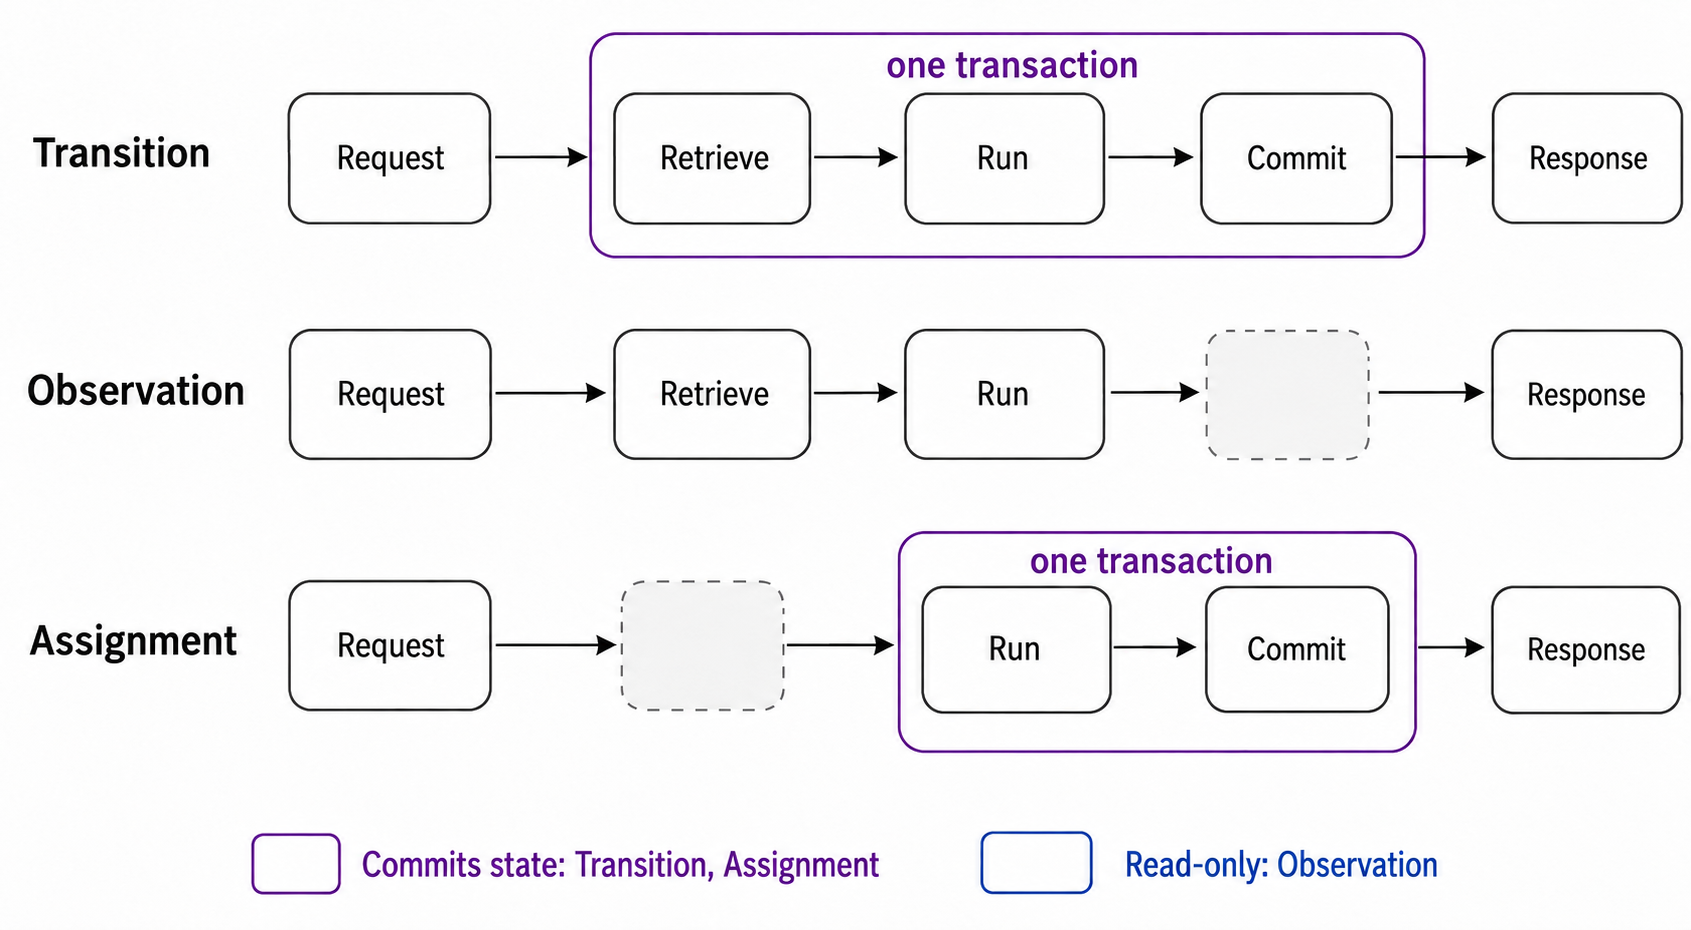
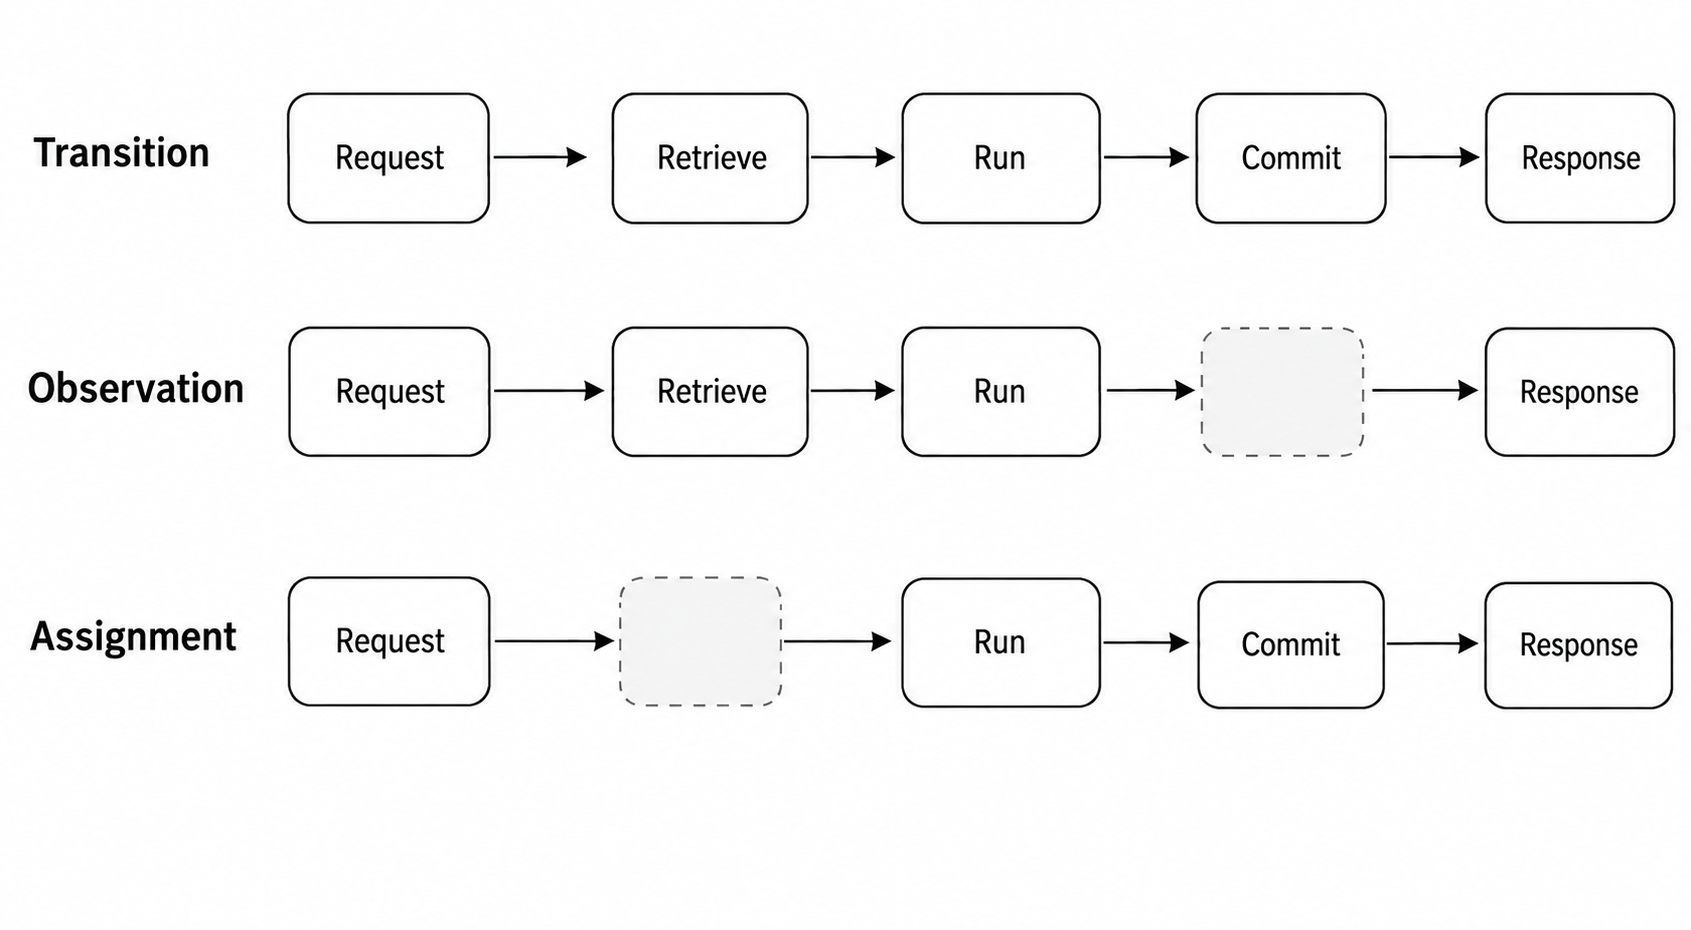
docs: show transaction as the commit phase

diff --git a/docs/concepts/operations.md b/docs/concepts/operations.md
@@ -16,19 +16,17 @@ An operation has three phases. Its type determines which of them it needs:
 
 ![The phases of transitions, observations, and assignments](../.assets/operations.png)
 
-The empty positions show phases an operation type does not have. The transaction boundary contains
-all the phases that operate on managed state: a transition retrieves, runs, and commits within it;
-an assignment runs against a changeset and commits it within the same boundary. An observation
-retrieves and runs without opening a transaction because it has nothing to commit.
+The empty positions show phases an operation type does not have. A transition uses all three;
+an observation does not commit; an assignment prepares changes without retrieving state first.
 
 The function expresses the **run** phase. Retrieval and persistence belong to the runtime.
 Changing several fields in the function prepares one state change; it does not save each field
 as a separate write.
 
-**An operation that commits its component's state ends in one transaction, or no committed
-transaction at all.** Its changes are applied together. A business rejection or a failure before
-commit leaves them unapplied. This also holds when a transition changes a group of objects:
-the group is committed as one unit.
+**Commit is one transaction.** All changes prepared during Run are applied together. If Run
+returns a business rejection, Commit does not happen and no transaction is opened. A failure
+during Commit leaves none of the changes applied. This also holds when a transition changes a
+group of objects: the group is committed as one unit.
 
 For example, an operation can change both an order's status and its total. Other calls see the
 committed result with both changes, rather than an intermediate order with only one of them.
@@ -43,9 +41,10 @@ safe: they do not change business state. Transitions and assignments are unsafe 
 phase. An effect is also unsafe because of the interaction it performs, but does not commit the
 state supplied to its function.
 
-The transaction boundary is the operation's own managed state. Calling another operation does
-not bring that operation's changes into the same transaction. A payment already charged by
-billing is not undone if the order's commit fails.
+The transaction contains only the operation's own managed state and the events produced by its
+change. Retrieve and Run happen before it. Calling another operation does not bring that
+operation's changes into the same transaction. A payment already charged by billing is not undone
+if the order's commit fails.
 
 ## The contract
 
